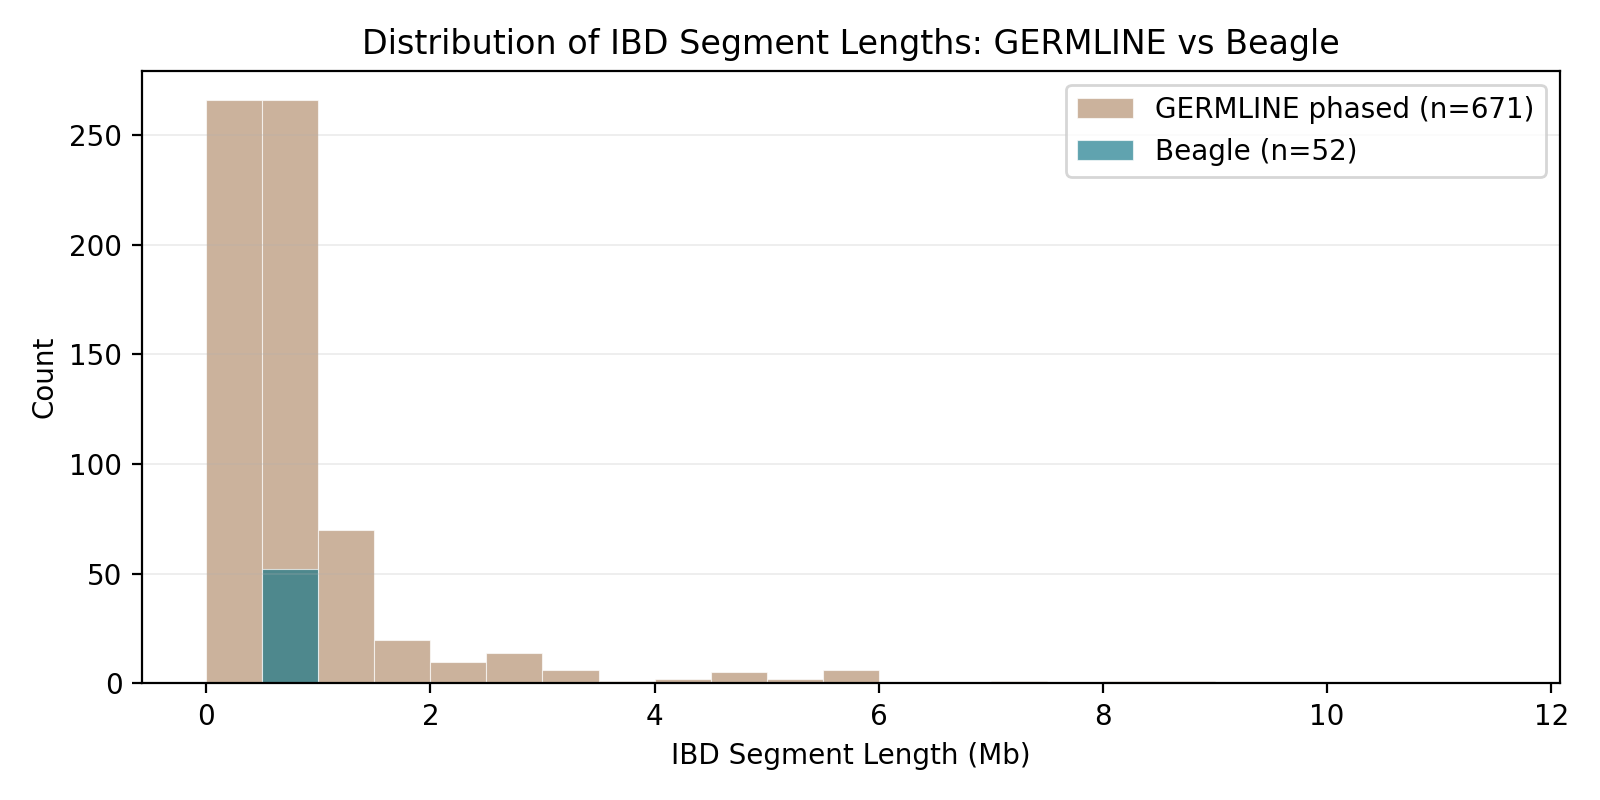
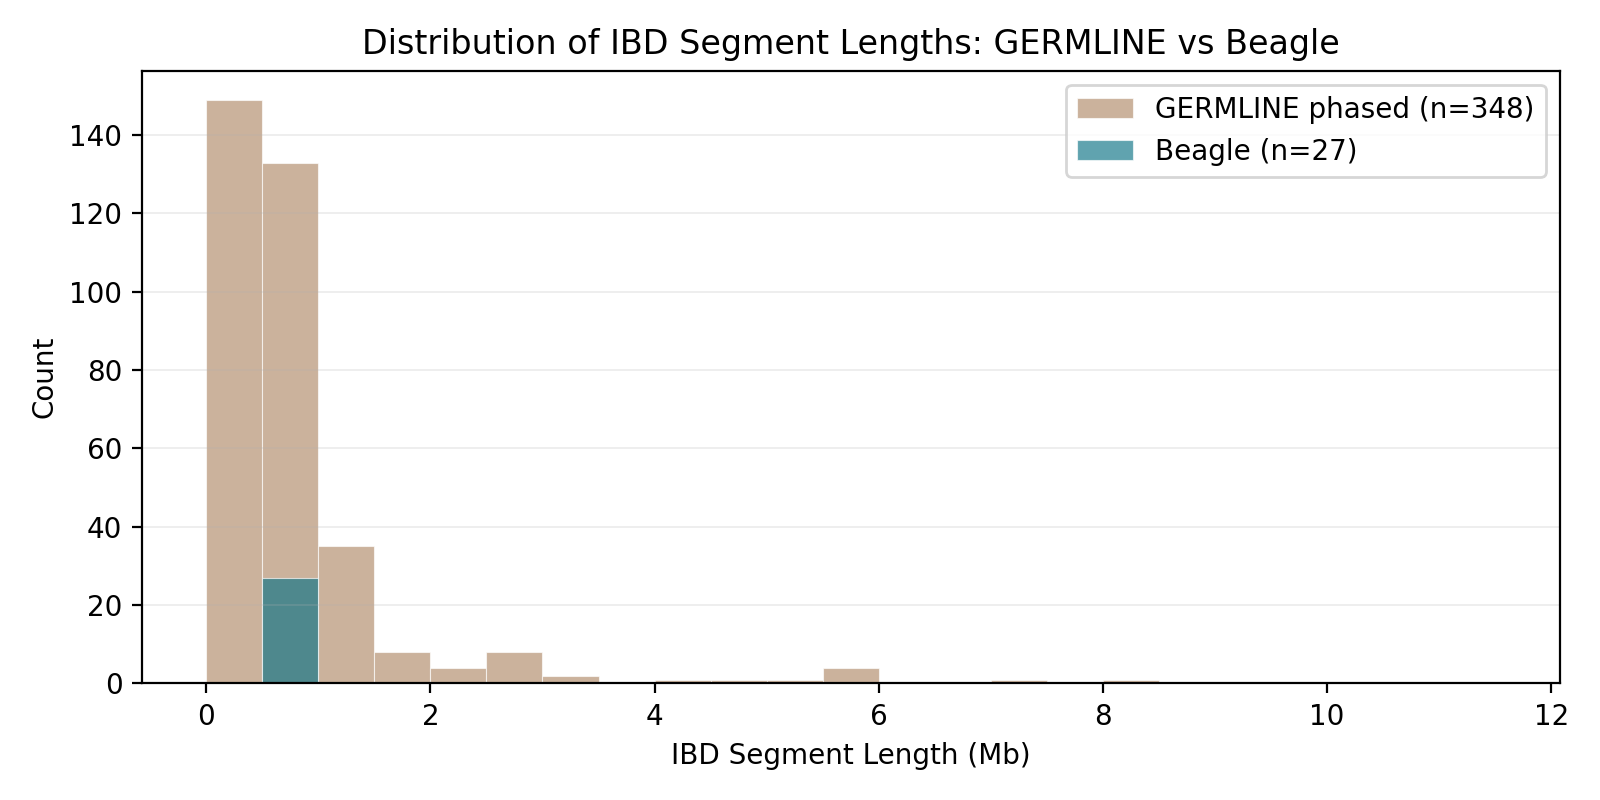
fix setup.sh, add cleanup.sh, edit documentation

diff --git a/README.md b/README.md
@@ -13,33 +13,19 @@ This project benchmarks two methods for detecting Identity-by-Descent (IBD) segm
 | **germline2** | Phased haplotype HAPS/SAMPLE + genetic map | Hash-based haplotype matching |
 | **Beagle 4.1** | Phased VCF | HMM-based Refined IBD |
 
-We apply both tools to the **1000 Genomes Phase 3 ASW** (African Ancestry in Southwest USA) population on chromosomes 13 and 22, then compare their outputs. We validate against a known mother-child pair (NA20317 → NA20318) confirmed from the 1000G pedigree.
+We apply both tools to the **1000 Genomes Phase 3 ASW** (African Ancestry in Southwest USA) population on chromosomes 21 and 22, then compare their outputs. We validate against a known parent-child pair (NA20317 → NA20318) confirmed from the 1000G pedigree.
 
-## Repository Structure
+## Dependencies 
+- Only available for Linux 
+- Java 8+ 
+- wget 
+- conda 
+- gcc 
+- make 
 
-```
-.
-├── data/
-│   ├── raw/          # 1000G VCFs, panel, pedigree (large files, not tracked in git)
-│   └── processed/    # Per-chromosome ASW VCFs and germline2 HAPS/SAMPLE inputs
-├── results/
-│   ├── chr13/        # germline2 .match and Beagle .ibd.gz for chr13
-│   ├── chr22/        # germline2 .match and Beagle .ibd.gz for chr22
-│   ├── summary/      # Aggregate TSV metrics
-│   └── figures/      # All plots (PNG)
-├── scripts/
-│   ├── vcf_to_haps_sample.py         # Convert phased VCF → SHAPEIT/IMPUTE HAPS+SAMPLE
-│   ├── summarize_ibd_results.py      # Aggregate and compare IBD outputs
-│   ├── plot_analysis.py              # Generate all figures
-│   └── extract_parent_child_pairs.py # Extract trios from 1000G pedigree
-├── tools/
-│   └── germline2/         # germline2 source (compiled by setup.sh)
-├── environment.yml    # Conda environment specification
-├── setup.sh           # One-time setup: installs tools and conda env
-└── run_analysis.sh    # End-to-end pipeline
-```
+Please ensure you met the above requirements before running the tool. 
 
-## Quick Start
+## Instructions to Run 
 
 ```bash
 # 1. One-time setup (creates conda env, downloads Beagle jar, installs germline2)
@@ -48,55 +34,52 @@ bash setup.sh
 # 2. Activate the conda environment
 conda activate cse284-ibd
 
-# 3. Run the full pipeline (downloads chromosome VCFs + genetic maps automatically)
-bash run_analysis.sh
+# 3. Run the pipeline on chr22 by default 
+bash run_full.sh
+
+# 4. Clean up before running the pipeline again (optional)
+bash cleanup.sh
 ```
 
-`setup.sh` handles conda environment creation, Beagle jar download, metadata download, and fresh germline2 install/compilation. The pipeline downloads 1000G chromosome VCFs and chromosome-specific genetic maps automatically if they are not present.
+`setup.sh` handles conda environment creation, Beagle download, metadata download, and fresh germline2 install/compilation. Run the pipeline within the created conda environment.
 
-To run specific chromosomes only:
+To run specific chromosomes:
 
 ```bash
-CHROMOSOMES="13 22" bash run_analysis.sh
+bash run_full.sh --chromosomes '21 22'
 ```
+
+To run on all autosomes:
+
+```bash
+bash run_full.sh --chromosomes all
+```
+
+Helper scripts can also be run separately (after setup and conda environment activation). By default, the commands below run on chr22. Note, the commands must be run in the following order to avoid errors: 
+```bash
+# 1. Processing data 
+bash scripts/prep_data.sh
+
+# 2. Run Germline2
+bash scripts/run_germline.sh
+
+# 3. Run Beagle
+bash scripts/run_beagle.sh
+
+# 4. Plot fugures and summarize analysis
+bash scripts/analyze.sh
+```
+
 
 ## Dataset
 
 - **Source:** 1000 Genomes Project Phase 3 ([internationalgenome.org](https://www.internationalgenome.org/data/))
 - **FTP:** `ftp://ftp.1000genomes.ebi.ac.uk/vol1/ftp/release/20130502/`
 - **Population:** ASW (African Ancestry in Southwest USA) — 61 individuals
-- **Chromosomes:** 13 and 22 (biallelic SNPs only)
+- **Chromosomes:** 21 and 22 (biallelic SNPs only)
 - **Phasing:** Pre-phased by SHAPEIT2 in the original 1000G release
-- **Known parent-child pair:** NA20317 (mother) → NA20318 (child), from the 1000G pedigree
+- **Known parent-child pair:** NA20317 (parent) → NA20318 (child), from the 1000G pedigree
 
-> **Why chromosomes 13 and 22?**
-> Both are acrocentric — their short p-arms are not sequenced in 1000G, so the VCF begins after the centromere (~19 Mb for chr13, ~16 Mb for chr22). This avoids a GERMLINE artifact where centromeric high-LD regions on metacentric chromosomes are incorrectly called as IBD.
-
-## Dependencies
-
-| Tool | Version | How obtained |
-|---|---|---|
-| Beagle | 4.1 (21Jan17.6cc) | Downloaded automatically by `setup.sh` |
-| germline2 | master | Downloaded and compiled by `setup.sh` |
-| bcftools | 1.19 | conda env (`environment.yml`) or `module load bcftools/1.19` |
-| Python | 3.8 | conda env |
-| matplotlib | 3.5 | conda env |
-| Java | 8+ | System (`/usr/bin/java`) or module |
-
-## Pipeline Steps
-
-`run_analysis.sh` runs the following for each chromosome (default: `13 22`):
-
-1. Download 1000G Phase 3 VCF if not present
-2. Subset to ASW samples, biallelic SNPs (`bcftools view -m2 -M2 -v snps`)
-3. Convert phased VCF to SHAPEIT HAPS/SAMPLE (`vcf_to_haps_sample.py`)
-4. Download per-chromosome GRCh37 genetic map (`genetic_map_chr*.txt`)
-5. Run germline2 (`-h -m 1`)
-6. Run Beagle IBD (`ibdcm=0.5`, `ibdlod=1e-6`)
-7. Summarize results across chromosomes (`summarize_ibd_results.py`)
-8. Generate figures (`plot_analysis.py`)
-
-All steps are idempotent — re-running skips already-completed steps.
 
 ## Key Results
 
@@ -122,16 +105,23 @@ All steps are idempotent — re-running skips already-completed steps.
 
 GERMLINE consistently detects more and longer IBD segments than Beagle. The low Jaccard overlap (~5–9%) reflects algorithmic differences: GERMLINE uses exact haplotype matching while Beagle uses probabilistic HMM inference. Running GERMLINE on unphased diploid input produces zero parent-child segments — phased haploid input is required.
 
-## Figures
+### Figures
 
 All figures are written to `results/figures/`:
 
 | Figure | Description |
 |---|---|
-| `genome_karyogram_NA20317_NA20318.png` | IBD segments for the parent-child pair across chr13 and chr22 |
-| `seg_length_hist.png` | Distribution of IBD segment lengths (GERMLINE vs Beagle, both chromosomes) |
+| `genome_karyogram_NA20317_NA20318.png` | IBD segments for the parent-child pair across specified chromosomes |
+| `seg_length_hist.png` | Distribution of IBD segment lengths (GERMLINE vs Beagle, specified chromosomes) |
 | `method_overlap.png` | Total IBD detected per chromosome per method |
 
 ## LLM Usage
 
-Claude (Anthropic) was used to assist with Python and shell script development and documentation. The analysis design, method selection, parameter choices, and scientific interpretation were developed by the project authors.
+Claude (Anthropic) was used to assist with minor Python and shell script development and documentation. The analysis design, method selection, parameter choices, and scientific interpretation were developed by the project authors.
+
+## TODO: 
+- [ ] run on different beagle tolerances and pick one 
+- [ ] document choosing beagle tolerance 
+- [ ] test on full genome (autosomes)
+- [ ] edit key findings section 
+- [ ] edit README to reflect full genome 
